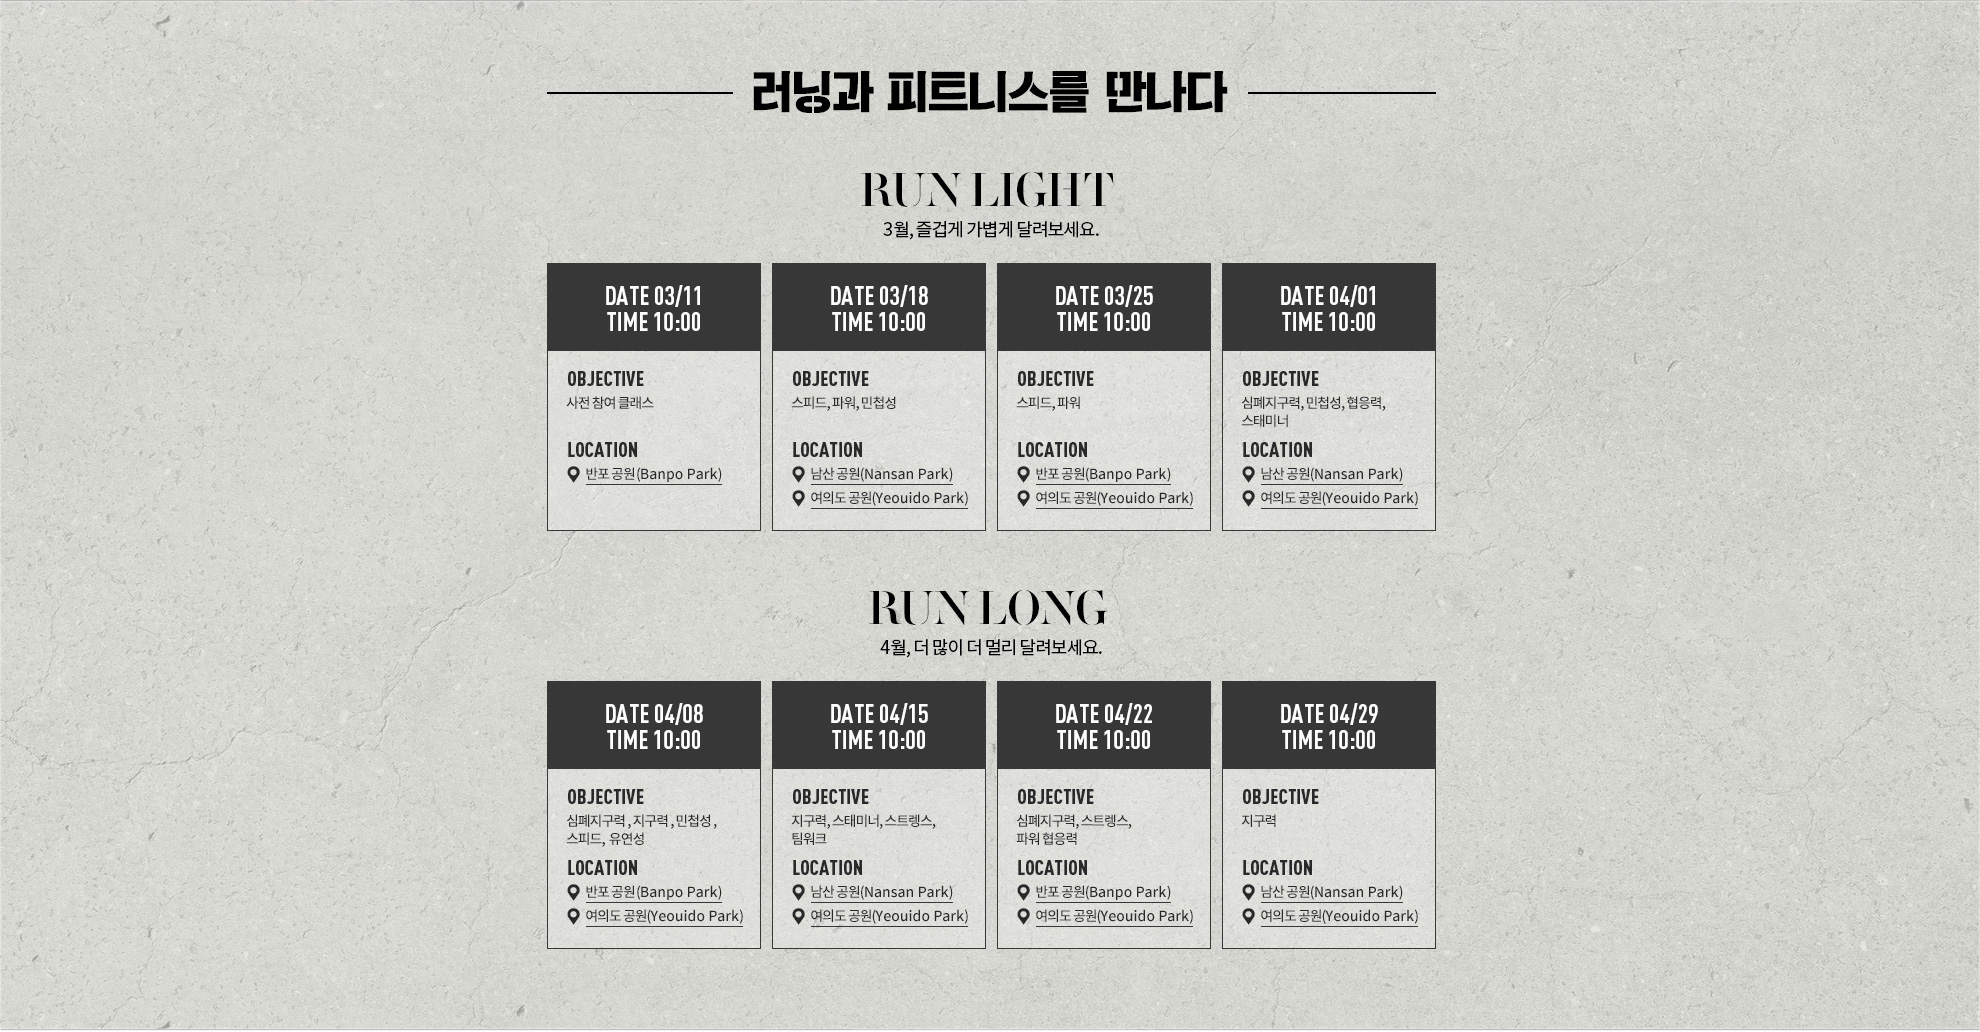
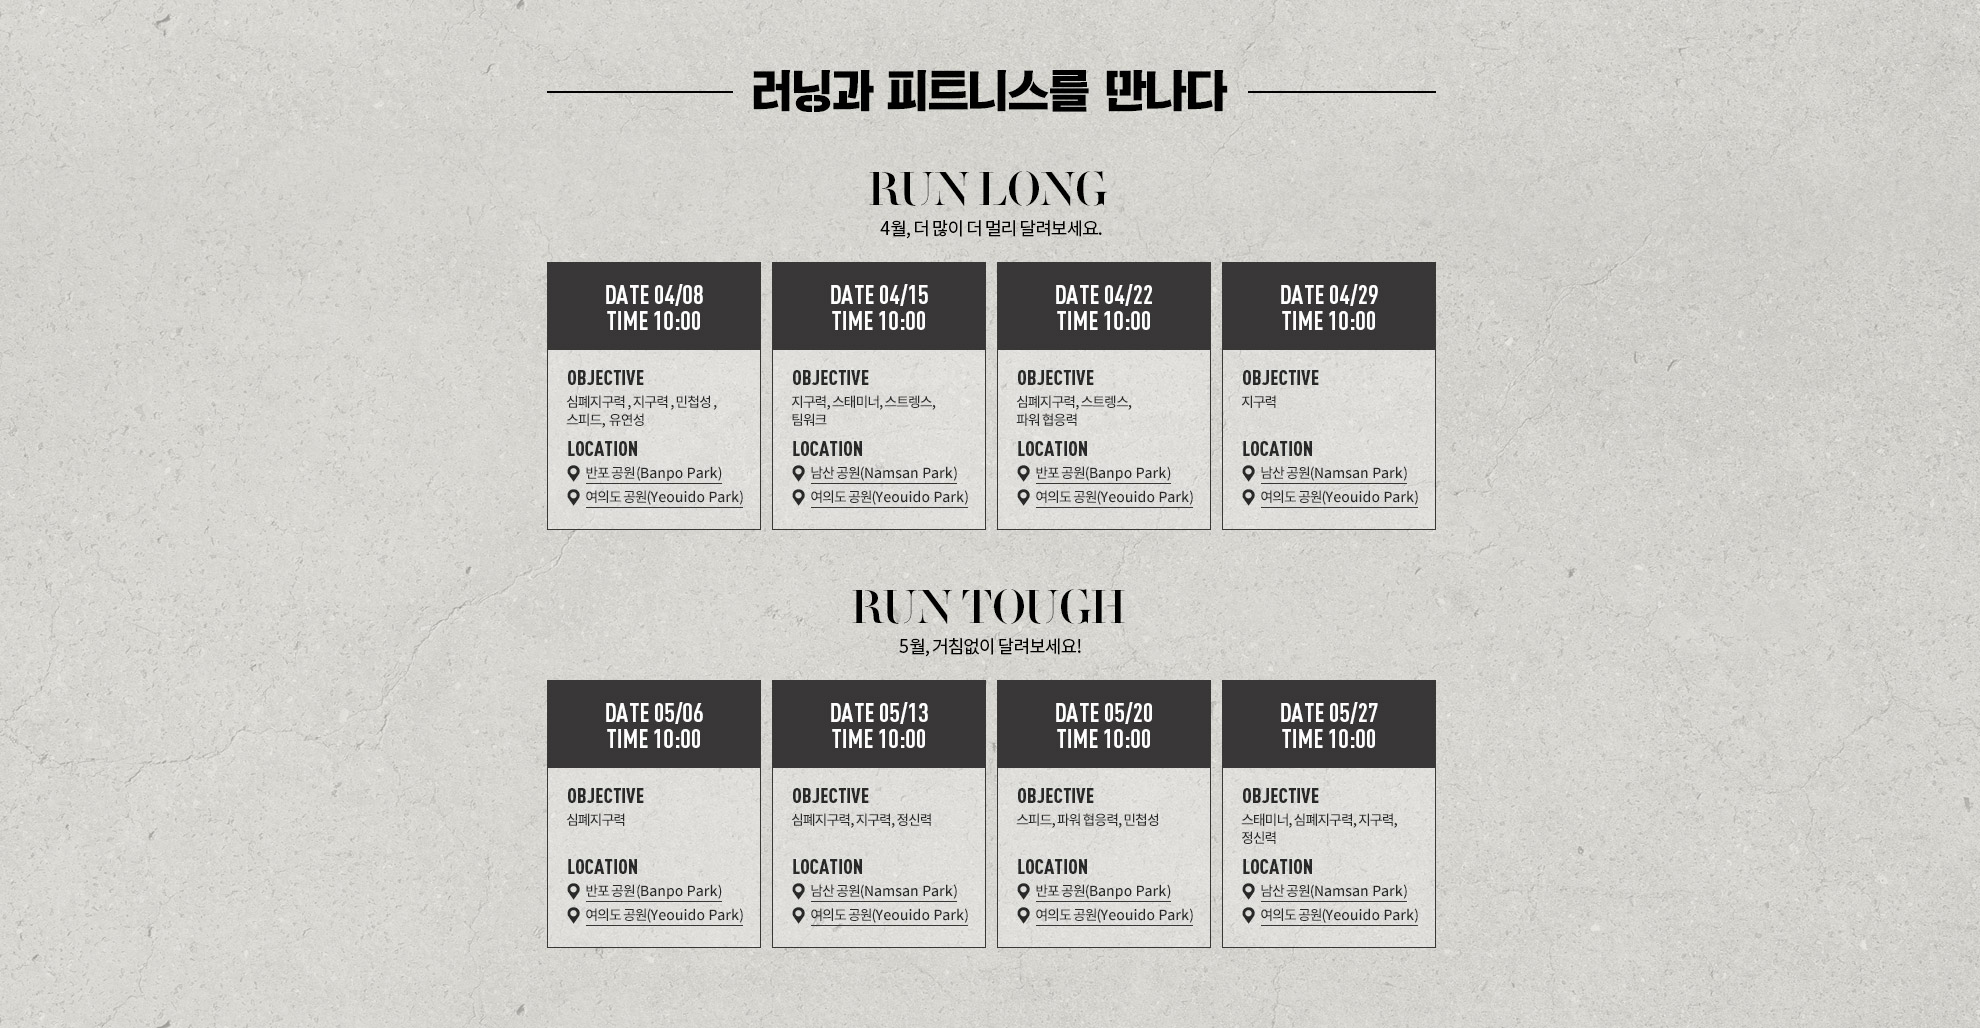
리복 웹모 비모어휴먼캠페인 시간 업데이트

diff --git a/mobile/html/reebok/event/aboutus/bmhp.html b/mobile/html/reebok/event/aboutus/bmhp.html
@@ -647,70 +647,13 @@
 
 					<div class="time_table">
 						<h2><img src="http://imagem.reebok.co.kr/images/reebok/about/bmhp/txt_title.png" alt=""></h2>
-						<h3>RUN LIGHT</h3>
-						<p class="sub_title">3월, 즐겁게 가볍게 달려보세요.</p>
-						<div class="table_wrap">
-							<div class="col">
-								<div class="box">
-									<a href="https://www.google.co.kr/maps/place/%EC%84%9C%EC%9A%B8%ED%8A%B9%EB%B3%84%EC%8B%9C+%EC%84%9C%EC%B4%88%EA%B5%AC+%EC%9E%A0%EC%9B%90%EB%8F%99+122-1/@37.5133283,127.0015205,17z/data=!4m2!3m1!1s0x357ca3d5c5c9a71f:0x61e9bbf4bb239208" target="_blank" class="link"></a>
-									<div class="title">DATE 03/11<br>TIME 10:00</div>
-									<div class="con">
-										<p class="obj">objective</p>
-										<p class="txt" style="height: 5rem;">사전 참여 클래스</p>
-										<p class="obj">location</p>
-										<p class="txt place bef icons" data-icon="">반포 공원<span></span></p>
-									</div>
-								</div>
-								<div class="box last">
-									<a href="https://www.google.co.kr/maps/place/37%C2%B032'27.4%22N+126%C2%B059'49.0%22E/@37.5409444,126.9969444,17z" target="_blank" class="link half"></a>
-									<a href="https://www.google.co.kr/maps/place/37%C2%B031'29.7%22N+126%C2%B055'14.3%22E/@37.524755,126.9212397,17z" class="link half" target="_blank" style="left:50% !important;"></a>
-									<div class="title">DATE 03/18<br>TIME 10:00</div>
-									<div class="con">
-										<p class="obj">objective</p>
-										<p class="txt" style="height: 5rem;">스피드, 파워, 민첩성</p>
-										<p class="obj">location</p>
-										<p class="txt place bef icons" data-icon="">남산 공원<span></span></p>
-										<p class="txt place bef icons" data-icon="" style="margin-left:15px">여의도 공원<span></span></p>
-									</div>
-								</div>
-							</div>
-							<div class="col">
-								<div class="box">
-									<a href="https://www.google.co.kr/maps/place/%EC%84%9C%EC%9A%B8%ED%8A%B9%EB%B3%84%EC%8B%9C+%EC%84%9C%EC%B4%88%EA%B5%AC+%EC%9E%A0%EC%9B%90%EB%8F%99+122-1/@37.5133283,127.0015205,17z/data=!4m2!3m1!1s0x357ca3d5c5c9a71f:0x61e9bbf4bb239208" tager="_blank" class="link half"></a>
-									<a href="https://www.google.co.kr/maps/place/37%C2%B031'29.7%22N+126%C2%B055'14.3%22E/@37.524755,126.9212397,17z" tager="_blank" class="link half" style="left:50% !important;"></a>
-									<div class="title">DATE 03/25<br>TIME 10:00</div>
-									<div class="con">
-										<p class="obj">objective</p>
-										<p class="txt" style="height: 5rem;">스피드, 파워</p>
-										<p class="obj">location</p>
-										<p class="txt place bef icons" data-icon="">반포 공원<span></span></p>
-										<p class="txt place bef icons" data-icon="" style="margin-left:15px">여의도 공원<span></span></p>
-									</div>
-								</div>
-								<div class="box last">
-									<a href="https://www.google.co.kr/maps/place/37%C2%B032'27.4%22N+126%C2%B059'49.0%22E/@37.5409444,126.9969444,17z" target="_blank" class="link half"></a>
-									<a href="https://www.google.co.kr/maps/place/37%C2%B031'29.7%22N+126%C2%B055'14.3%22E/@37.5249167,126.9206389,17z" target="_blank" class="link half" style="left:50% !important;"></a>
-									<div class="title">DATE 04/01<br>TIME 10:00</div>
-									<div class="con">
-										<p class="obj">objective</p>
-										<p class="txt" style="height: 5rem;">심폐지구력, 민첩성, 협응력, <br>스태미너</p>
-										<p class="obj">location</p>
-										<p class="txt place bef icons" data-icon="">남산 공원<span></span></p>
-										<p class="txt place bef icons" data-icon="" style="margin-left:15px">여의도 공원<span></span></p>
-									</div>
-								</div>
-							</div>
-						</div>
-					</div>
-
-					<div class="time_table" style="padding-top:2rem; padding-bottom:4rem;">
-						<h3>RUN LIGHT</h3>
+						<h3>RUN LONG</h3>
 						<p class="sub_title">4월, 더 많이 더 멀리 달려보세요.</p>
 						<div class="table_wrap">
 							<div class="col">
 								<div class="box">
-									<a href="https://www.google.co.kr/maps/place/%EC%84%9C%EC%9A%B8%ED%8A%B9%EB%B3%84%EC%8B%9C+%EC%84%9C%EC%B4%88%EA%B5%AC+%EC%9E%A0%EC%9B%90%EB%8F%99+122-1/@37.5133283,127.0015205,17z/data=!4m2!3m1!1s0x357ca3d5c5c9a71f:0x61e9bbf4bb239208" target="_blank" class="link half"></a>
-									<a href="https://www.google.co.kr/maps/place/37%C2%B031'29.7%22N+126%C2%B055'14.3%22E/@37.5249167,126.9206389,17z" target="_blank" class="link half" style="left:50% !important;"></a>
+									<a href="https://www.google.co.kr/maps/place/%EC%84%9C%EC%9A%B8%ED%8A%B9%EB%B3%84%EC%8B%9C+%EC%84%9C%EC%B4%88%EA%B5%AC+%EC%9E%A0%EC%9B%90%EB%8F%99+122-1/@37.5095667,126.9978834,17z/data=!4m2!3m1!1s0x357ca3d5c5c9a71f:0x61e9bbf4bb239208" target="_blank" class="link half"></a>
+									<a href="https://www.google.co.kr/maps/place/37%C2%B031'29.7%22N+126%C2%B055'14.3%22E/@37.524755,126.9212397,17z" class="link half" target="_blank" style="left:50% !important;"></a>
 									<div class="title">DATE 04/08<br>TIME 10:00</div>
 									<div class="con">
 										<p class="obj">objective</p>
@@ -722,7 +665,7 @@
 								</div>
 								<div class="box last">
 									<a href="https://www.google.co.kr/maps/place/37%C2%B032'27.4%22N+126%C2%B059'49.0%22E/@37.5409444,126.9969444,17z" target="_blank" class="link half"></a>
-									<a href="https://www.google.co.kr/maps/place/37%C2%B031'29.7%22N+126%C2%B055'14.3%22E/@37.5249167,126.9206389,17z" target="_blank" class="link half" style="left:50% !important;"></a>
+									<a href="https://www.google.co.kr/maps/place/37%C2%B031'29.7%22N+126%C2%B055'14.3%22E/@37.524755,126.9212397,17z" class="link half" target="_blank" style="left:50% !important;"></a>
 									<div class="title">DATE 04/15<br>TIME 10:00</div>
 									<div class="con">
 										<p class="obj">objective</p>
@@ -736,7 +679,7 @@
 							<div class="col">
 								<div class="box">
 									<a href="https://www.google.co.kr/maps/place/%EC%84%9C%EC%9A%B8%ED%8A%B9%EB%B3%84%EC%8B%9C+%EC%84%9C%EC%B4%88%EA%B5%AC+%EC%9E%A0%EC%9B%90%EB%8F%99+122-1/@37.5095667,126.9978834,17z/data=!4m2!3m1!1s0x357ca3d5c5c9a71f:0x61e9bbf4bb239208" target="_blank" class="link half"></a>
-									<a href="https://www.google.co.kr/maps/place/37%C2%B031'29.7%22N+126%C2%B055'14.3%22E/@37.5246699,126.9206389,17z" target="_blank" class="link half" style="left:50% !important;"></a>
+									<a href="https://www.google.co.kr/maps/place/37%C2%B031'29.7%22N+126%C2%B055'14.3%22E/@37.524755,126.9212397,17z" target="_blank" class="link half" style="left:50% !important;"></a>
 									<div class="title">DATE 04/22<br>TIME 10:00</div>
 									<div class="con">
 										<p class="obj">objective</p>
@@ -748,11 +691,70 @@
 								</div>
 								<div class="box last">
 									<a href="https://www.google.co.kr/maps/place/37%C2%B032'27.4%22N+126%C2%B059'49.0%22E/@37.5409444,126.9969444,17z" target="_blank" class="link half"></a>
-									<a href="https://www.google.co.kr/maps/place/37%C2%B031'29.7%22N+126%C2%B055'14.3%22E/@37.5246699,126.9206389,17z" target="_blank" class="link half" style="left:50% !important;"></a>
+									<a href="https://www.google.co.kr/maps/place/37%C2%B031'29.7%22N+126%C2%B055'14.3%22E/@37.5249167,126.9206389,17z" target="_blank" class="link half" style="left:50% !important;"></a>
 									<div class="title">DATE 04/29<br>TIME 10:00</div>
 									<div class="con">
 										<p class="obj">objective</p>
 										<p class="txt" style="height: 5rem;">지구력</p>
+										<p class="obj">location</p>
+										<p class="txt place bef icons" data-icon="">남산 공원<span></span></p>
+										<p class="txt place bef icons" data-icon="" style="margin-left:15px">여의도 공원<span></span></p>
+									</div>
+								</div>
+							</div>
+						</div>
+					</div>
+
+					<div class="time_table" style="padding-top:2rem; padding-bottom:4rem;">
+						<h3>RUN TOUGH</h3>
+						<p class="sub_title">5월, 거침없이 달려보세요!</p>
+						<div class="table_wrap">
+							<div class="col">
+								<div class="box">
+									<a href="https://www.google.co.kr/maps/place/%EC%84%9C%EC%9A%B8%ED%8A%B9%EB%B3%84%EC%8B%9C+%EC%84%9C%EC%B4%88%EA%B5%AC+%EC%9E%A0%EC%9B%90%EB%8F%99+122-1/@37.5095667,126.9978834,17z/data=!4m2!3m1!1s0x357ca3d5c5c9a71f:0x61e9bbf4bb239208" target="_blank" class="link half"></a>
+									<a href="https://www.google.co.kr/maps/place/37%C2%B031'29.7%22N+126%C2%B055'14.3%22E/@37.5249167,126.9206389,17z" target="_blank" class="link half" style="left:50% !important;"></a>
+									<div class="title">DATE 05/06<br>TIME 10:00</div>
+									<div class="con">
+										<p class="obj">objective</p>
+										<p class="txt" style="height: 5rem;">심폐지구력</p>
+										<p class="obj">location</p>
+										<p class="txt place bef icons" data-icon="">반포 공원<span></span></p>
+										<p class="txt place bef icons" data-icon="" style="margin-left:15px">여의도 공원<span></span></p>
+									</div>
+								</div>
+								<div class="box last">
+									<a href="https://www.google.co.kr/maps/place/37%C2%B032'27.4%22N+126%C2%B059'49.0%22E/@37.5409444,126.9969444,17z" target="_blank" class="link half"></a>
+									<a href="https://www.google.co.kr/maps/place/37%C2%B031'29.7%22N+126%C2%B055'14.3%22E/@37.5249167,126.9206389,17z" target="_blank" class="link half" style="left:50% !important;"></a>
+									<div class="title">DATE 05/13<br>TIME 10:00</div>
+									<div class="con">
+										<p class="obj">objective</p>
+										<p class="txt" style="height: 5rem;">심폐지구력, 지구력, 정신력</p>
+										<p class="obj">location</p>
+										<p class="txt place bef icons" data-icon="">남산 공원<span></span></p>
+										<p class="txt place bef icons" data-icon="" style="margin-left:15px">여의도 공원<span></span></p>
+									</div>
+								</div>
+							</div>
+							<div class="col">
+								<div class="box">
+									<a href="https://www.google.co.kr/maps/place/%EC%84%9C%EC%9A%B8%ED%8A%B9%EB%B3%84%EC%8B%9C+%EC%84%9C%EC%B4%88%EA%B5%AC+%EC%9E%A0%EC%9B%90%EB%8F%99+122-1/@37.5095667,126.9978834,17z/data=!4m2!3m1!1s0x357ca3d5c5c9a71f:0x61e9bbf4bb239208" target="_blank" class="link half"></a>
+									<a href="https://www.google.co.kr/maps/place/37%C2%B031'29.7%22N+126%C2%B055'14.3%22E/@37.5246699,126.9206389,17z" target="_blank" class="link half" style="left:50% !important;"></a>
+									<div class="title">DATE 05/20<br>TIME 10:00</div>
+									<div class="con">
+										<p class="obj">objective</p>
+										<p class="txt" style="height: 5rem;">스피드, 파워 협응력, 민첩성</p>
+										<p class="obj">location</p>
+										<p class="txt place bef icons" data-icon="">반포 공원<span></span></p>
+										<p class="txt place bef icons" data-icon="" style="margin-left:15px">여의도 공원<span></span></p>
+									</div>
+								</div>
+								<div class="box last">
+									<a href="https://www.google.co.kr/maps/place/37%C2%B032'27.4%22N+126%C2%B059'49.0%22E/@37.5409444,126.9969444,17z" target="_blank" class="link half"></a>
+									<a href="https://www.google.co.kr/maps/place/37%C2%B031'29.7%22N+126%C2%B055'14.3%22E/@37.5246699,126.9206389,17z" target="_blank" class="link half" style="left:50% !important;"></a>
+									<div class="title">DATE 05/27<br>TIME 10:00</div>
+									<div class="con">
+										<p class="obj">objective</p>
+										<p class="txt" style="height: 5rem;">스태미너, 심폐지구력, 지구력, <br>정신력 </p>
 										<p class="obj">location</p>
 										<p class="txt place bef icons" data-icon="">남산 공원<span></span></p>
 										<p class="txt place bef icons" data-icon="" style="margin-left:15px">여의도 공원<span></span></p>

diff --git a/web/html/reebok/event/about/bmhp.html b/web/html/reebok/event/about/bmhp.html
@@ -597,9 +597,10 @@
                   </div>
                   <div class="time_table_img">
                     <div class="bg">
-                      <img src="http://image.reebok.co.kr/images/reebok/event/about/bmhp/time_table.jpg" alt="" usemap="#map01">
+                      <img src="/images/reebok/event/about/bmhp/time_table.jpg" alt="" usemap="#map01">
                       <map name="map01" id="map01">
                         <area shape="rect" coords="567,464,746,485" href="https://goo.gl/maps/o3SR3V2hzZH2" alt="반포 공원" target="_blank">
+                        <area shape="rect" coords="567,490,746,509" href="https://goo.gl/maps/W1xAWtACsw82" alt="여의도 공원" target="_blank">
 
                         <area shape="rect" coords="793,464,970,485" href="https://goo.gl/maps/XF68abdTVsq" alt="남산 공원" target="_blank">
                         <area shape="rect" coords="793,485,970,510" href="https://goo.gl/maps/W1xAWtACsw82" alt="여의도 공원" target="_blank">
@@ -609,6 +610,8 @@
 
                         <area shape="rect" coords="1242,464,1419,485" href="https://goo.gl/maps/XF68abdTVsq" alt="남산 공원" target="_blank">
                         <area shape="rect" coords="1242,485,1419,510" href="https://goo.gl/maps/W1xAWtACsw82" alt="여의도 공원" target="_blank">
+
+
 
                         <area shape="rect" coords="567,882,746,904" href="https://goo.gl/maps/o3SR3V2hzZH2" alt="반포 공원" target="_blank">
                         <area shape="rect" coords="567,904,746,928" href="https://goo.gl/maps/W1xAWtACsw82" alt="여의도 공원" target="_blank">
@@ -621,7 +624,6 @@
 
                         <area shape="rect" coords="1242,882,1419,904" href="https://goo.gl/maps/XF68abdTVsq" alt="남산 공원" target="_blank">
                         <area shape="rect" coords="1242,904,1419,928" href="https://goo.gl/maps/W1xAWtACsw82" alt="여의도 공원" target="_blank">
-
                       </map>
                     </div>
                   </div>
